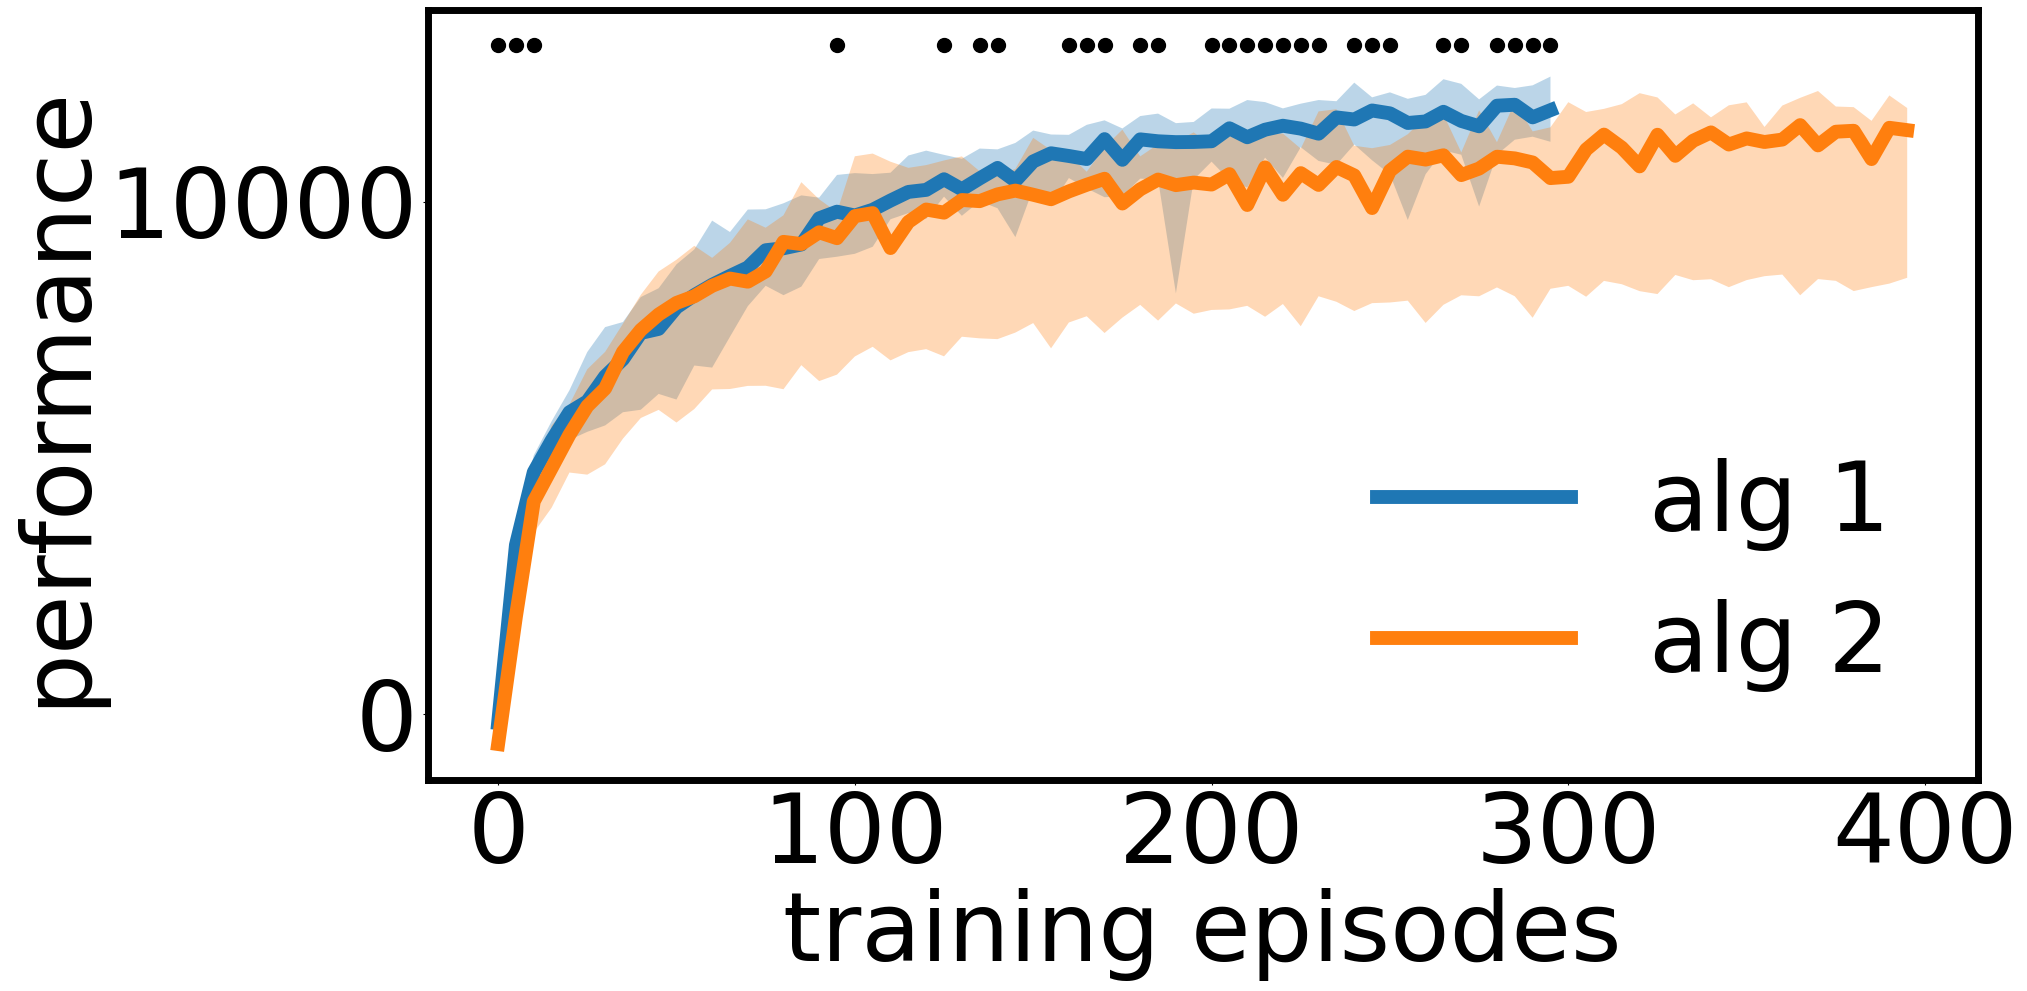
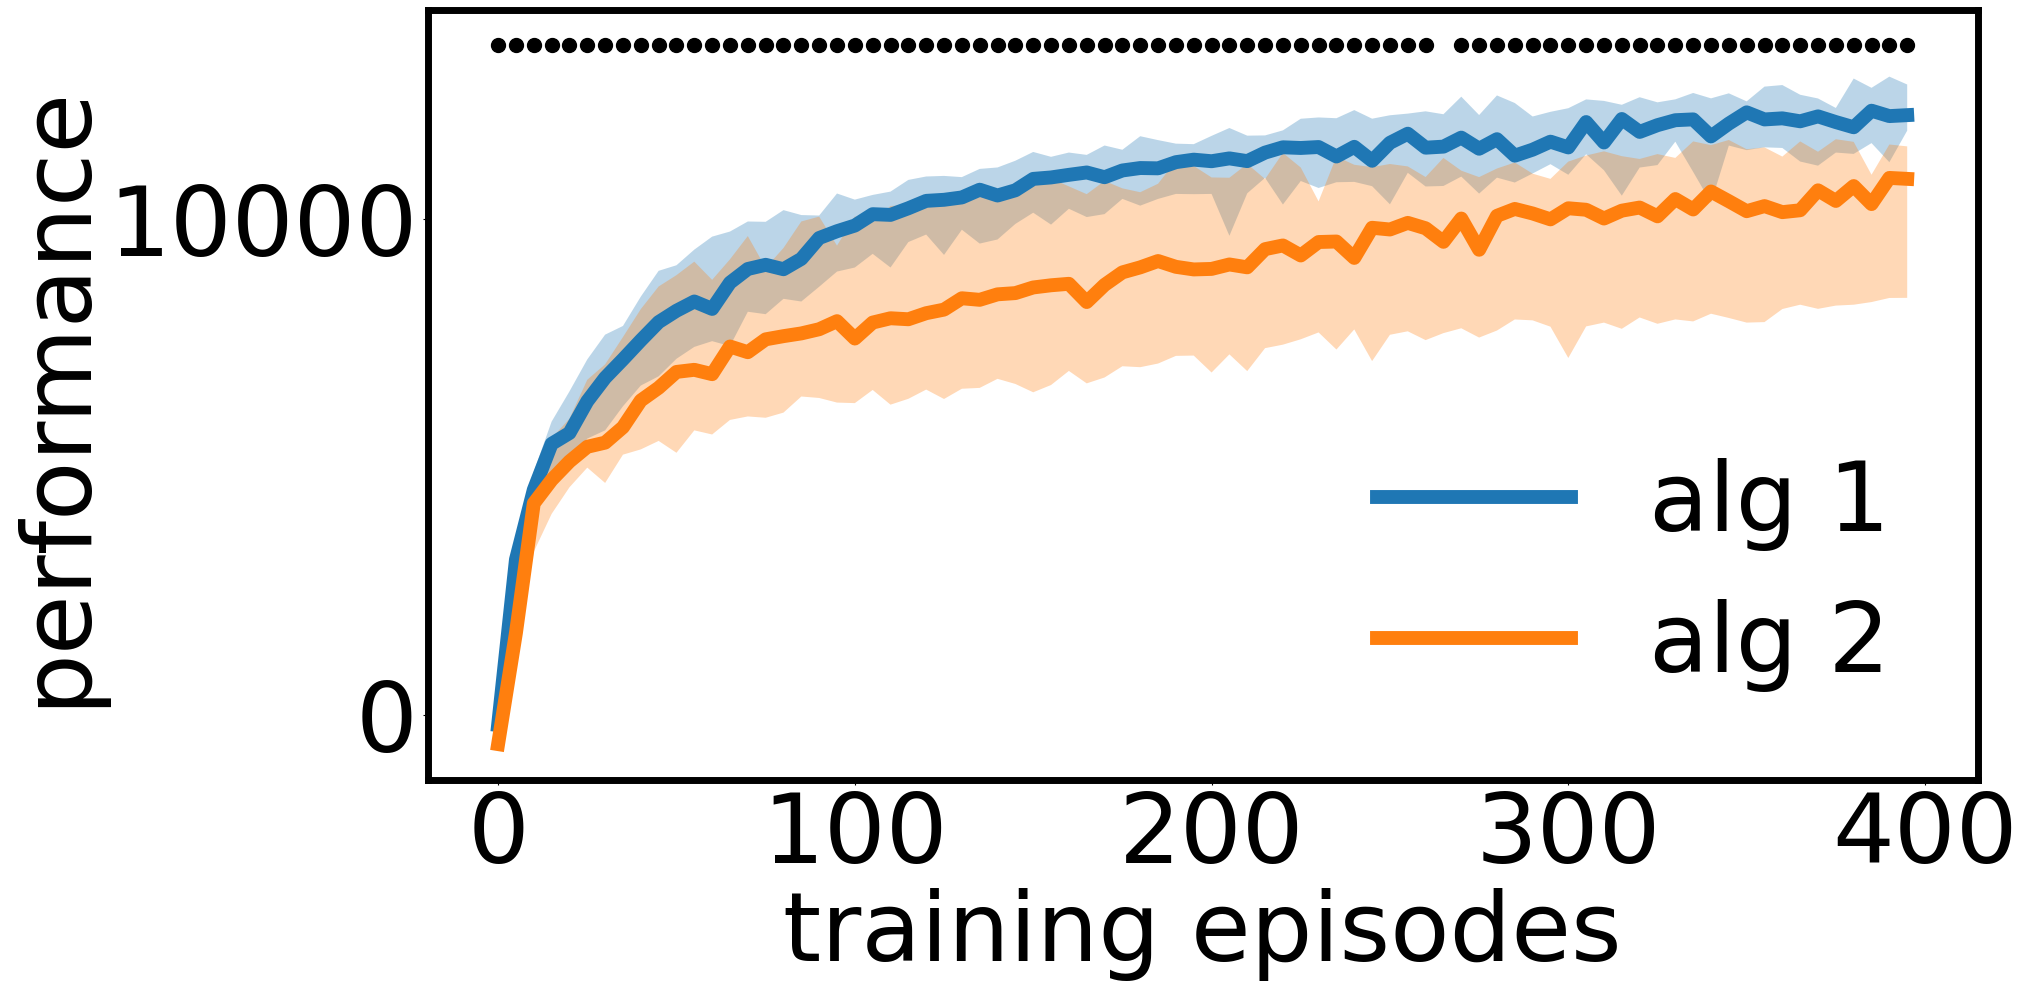
use same number of steps in demo

diff --git a/run_tests.py b/run_tests.py
@@ -105,7 +105,7 @@ if __name__ == '__main__':
     data1 = np.loadtxt('./data/sac_hc_all_perfs.txt')
     data2 = np.loadtxt('./data/td3_hc_all_perfs.txt')
     sample_size = 20
-    data1 = data1[:300, np.random.randint(0, data1.shape[1], sample_size)]
+    data1 = data1[:, np.random.randint(0, data1.shape[1], sample_size)]
     data2 = data2[:, np.random.randint(0, data1.shape[1], sample_size)]
     parser = argparse.ArgumentParser(formatter_class=argparse.ArgumentDefaultsHelpFormatter)
     add = parser.add_argument
